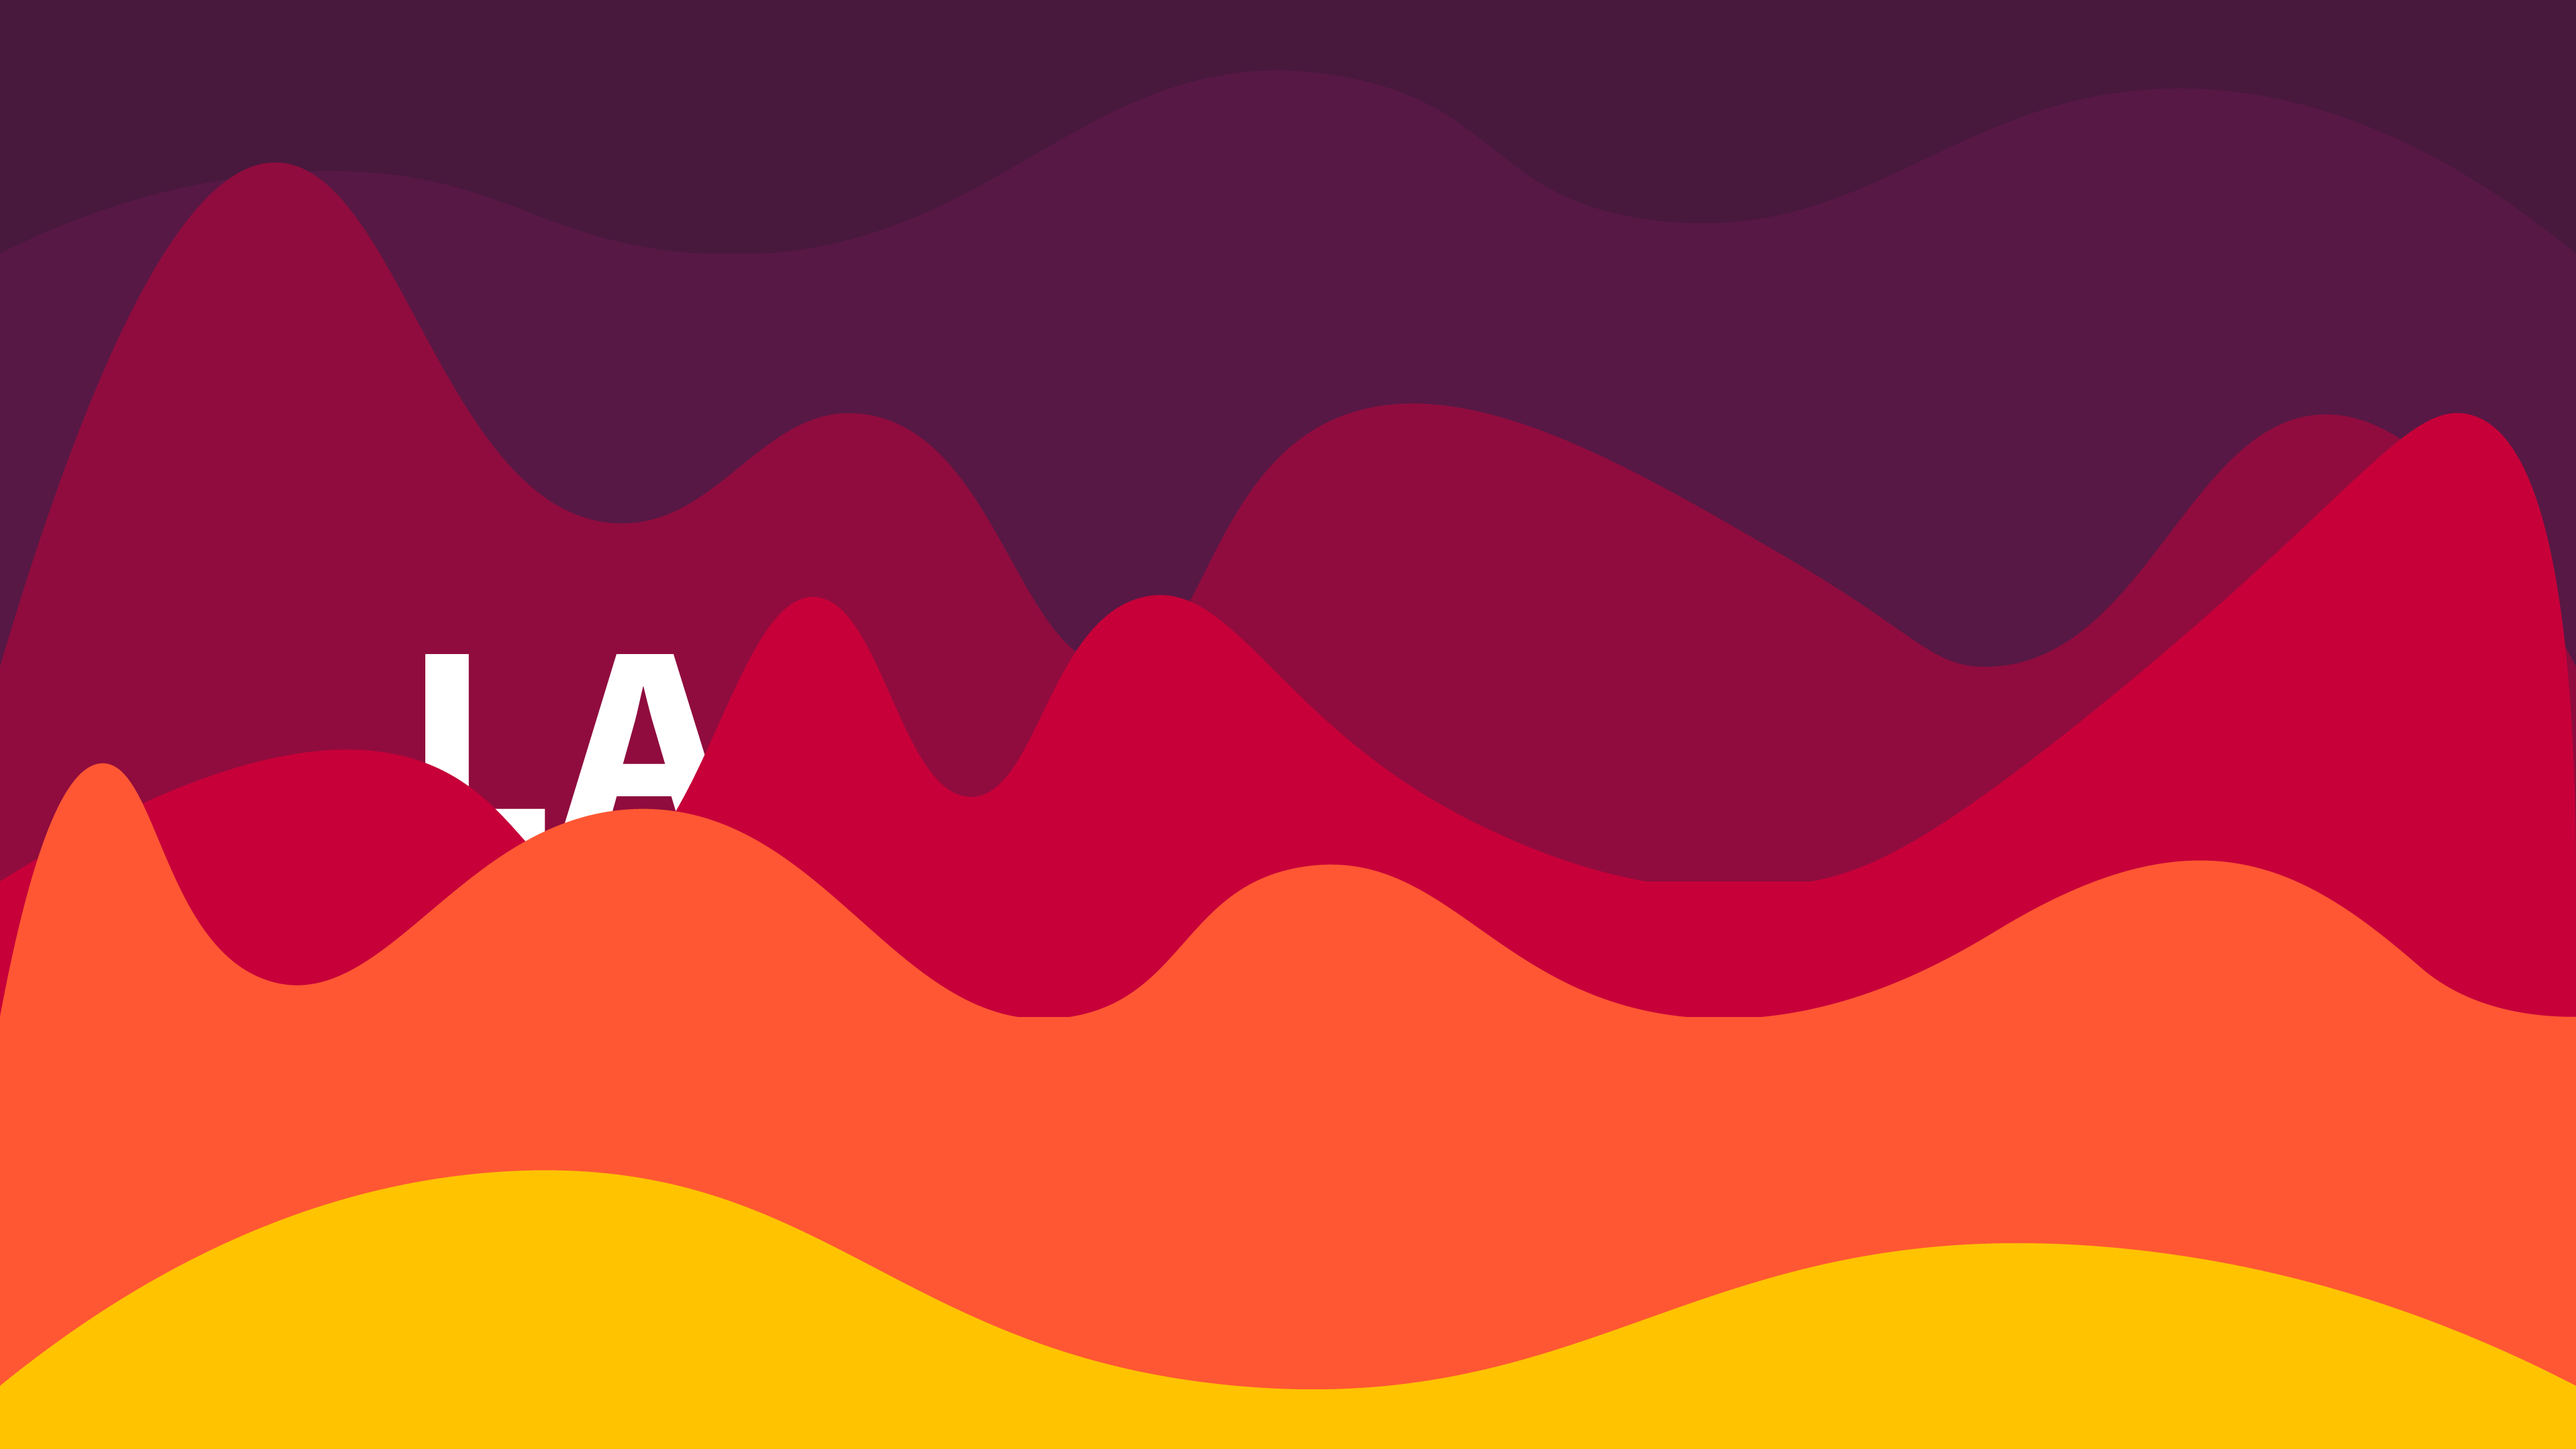
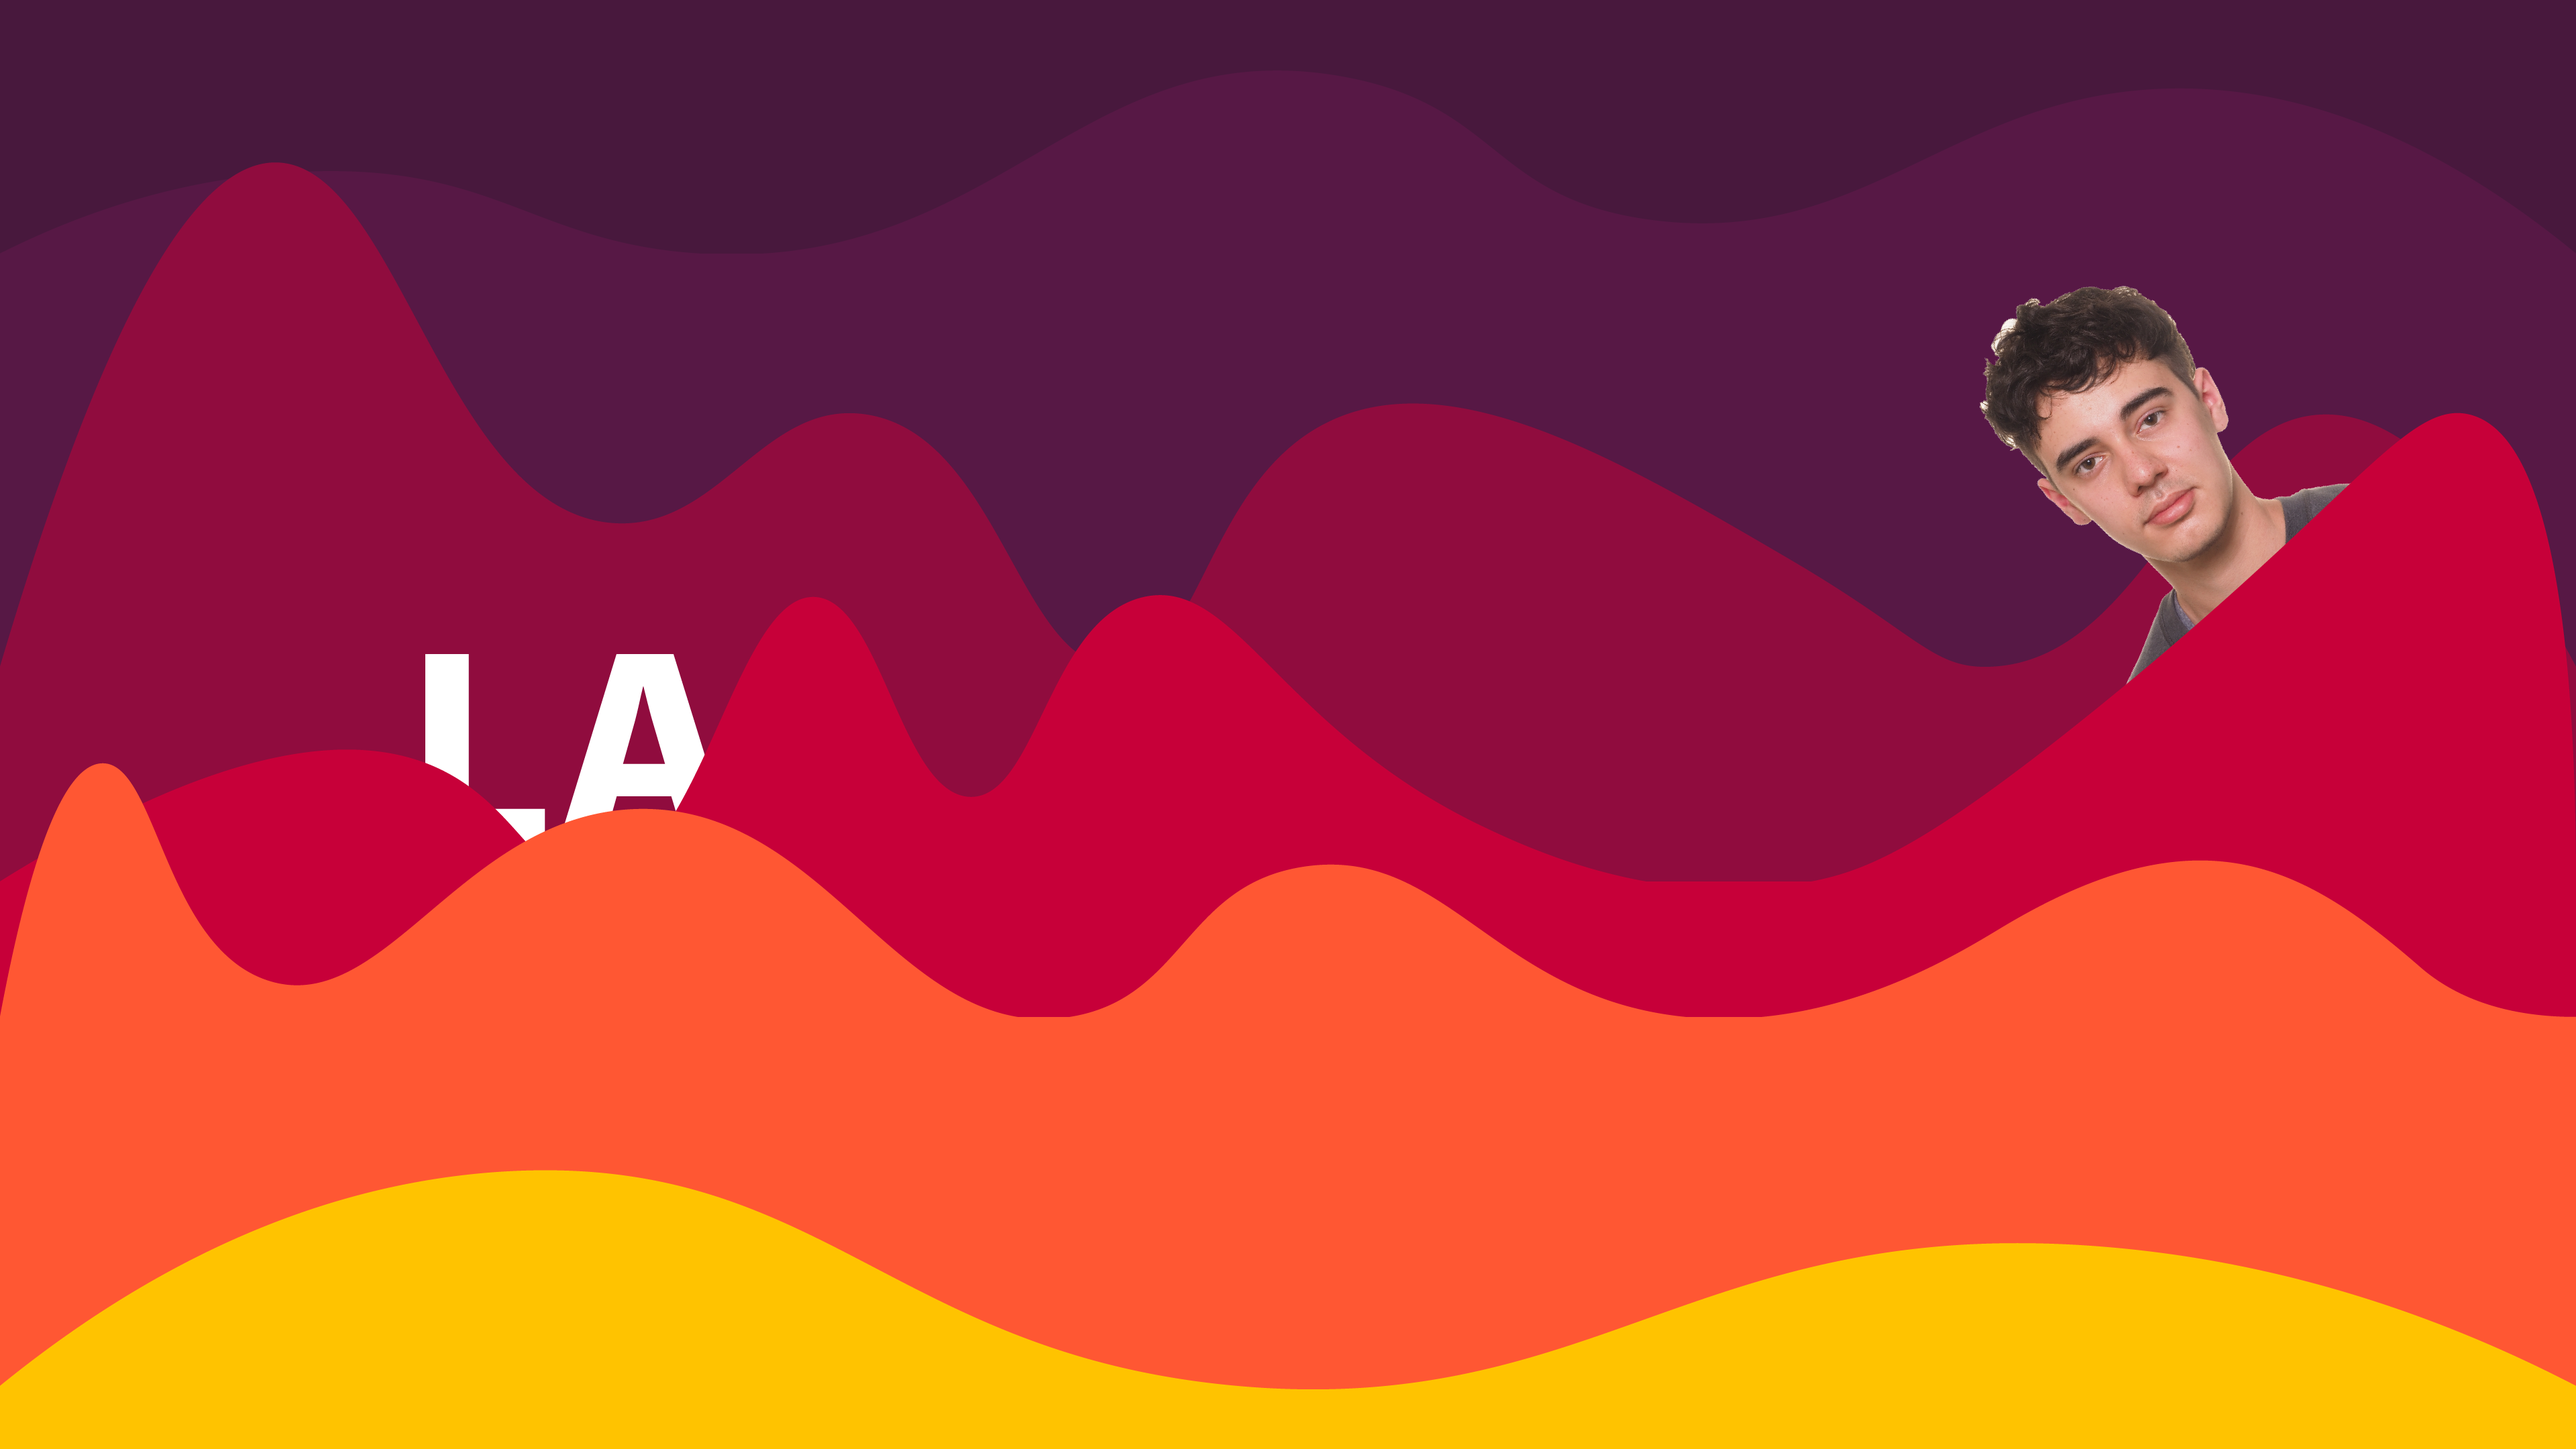
autor seite done

Changed region(s): [[0.75, 0.1861, 0.9062, 0.4653]]

diff --git a/mein_tutorial/albanesiluca_info01.html b/mein_tutorial/albanesiluca_info01.html
@@ -1,0 +1,54 @@
+<!DOCTYPE html>
+<html>
+  <head>
+    <title>Luca Albanesi</title>
+    <meta charset="utf-8" />
+    <meta name="author" content="Luca Albanesi" />
+    <link rel="stylesheet" href="autor.css" type="text/css" />
+    <link rel="preconnect" href="https://fonts.gstatic.com" />
+    <link
+      href="https://fonts.googleapis.com/css2?family=Work+Sans&display=swap"
+      rel="stylesheet"
+    />
+  </head>
+
+  <body background="images\autorbg.png">
+    <div class="header">
+      <h1>Luca Albanesi</h1>
+    </div>
+    <div class="map">
+      <iframe
+        src="https://www.google.com/maps/embed?pb=!1m18!1m12!1m3!1d84102.23840553882!2d9.460170893788517!3d48.79725778347951!2m3!1f0!2f0!3f0!3m2!1i1024!2i768!4f13.1!3m3!1m2!1s0x4799ba6dc34e1d03%3A0x41ffd3c8d098f80!2sSchorndorf!5e0!3m2!1sde!2sde!4v1609258005234!5m2!1sde!2sde"
+        width="50%"
+        height="300px"
+        frameborder=""
+        style="border: 0"
+        allowfullscreen=""
+        aria-hidden="false"
+        tabindex="0"
+      ></iframe>
+    </div>
+    <div class="aktivities">
+      <div class="boxedakt"><p>was habe ich vor IoT gemacht ?</p>
+      <p>Ich war auf dem TG der Grafenbergschule Schorndorf, Profilfach Informatik und habe
+        dort mein Abitur gemacht.</p></div>
+      <div class="boxedakt"><p>warum IoT?</p><p> Ich wollte nicht pur Informatik studieren,
+         da ich einen hang zur Praxis habe.</p></div>
+      <div class="boxedakt"><p>Vorkenntisse?</p><p>Wie gesagt Profilfach Informatik - also JA</p></div>
+      <div class="hobbys boxedakt"><p>Hobbys?</p><p>Ich fliege sogenannte freestyle Drohnen, dient zur Aufnahme von Videomaterial.</p>
+        <iframe class="vimeo" src="https://player.vimeo.com/video/501455327" width="640" height="360" frameborder="0" allow="autoplay; fullscreen; picture-in-picture" allowfullscreen></iframe></div>
+    </div>
+    <hr />
+    <div class="center">
+      <button
+       class="generalbtn"
+       onclick="window.location.href='albanesiluca_index.html'">Home</button>
+    </div>
+    <div class="footer">
+      <p>Email: luca@blumen-maechtlen.de | luca.albanesi@hfg-gmuend.de</p>
+      <p class="alignright">Datum: <span id="datum"></span></p>
+    </div>
+    
+    <script src="autor.js"></script>
+  </body>
+</html>

diff --git a/mein_tutorial/albanesiluca_index.html b/mein_tutorial/albanesiluca_index.html
@@ -29,13 +29,13 @@
     <div class="autor">
       <p>
         Hier gehts zum Autor
-        <a href="luca-albanesi.html"
+        <a href="albanesiluca_info01.html"
           ><button style="margin: 5px auto">Click!</button></a
         >
       </p>
       <img
         style="width: 100%; margin-top: 10px"
-        src="images\beispielbild.jpg"
+        src="images\portrai.png"
         alt="Bild des Autors"
       />
     </div>

diff --git a/mein_tutorial/autor.css b/mein_tutorial/autor.css
@@ -26,7 +26,7 @@ body {
   font-family: "Work Sans", sans-serif;
 }
 .map {
-  border-radius: 5px;
+  padding-top: 4px;
   text-align: center;
   margin: 5px auto;
   width: 100%;
